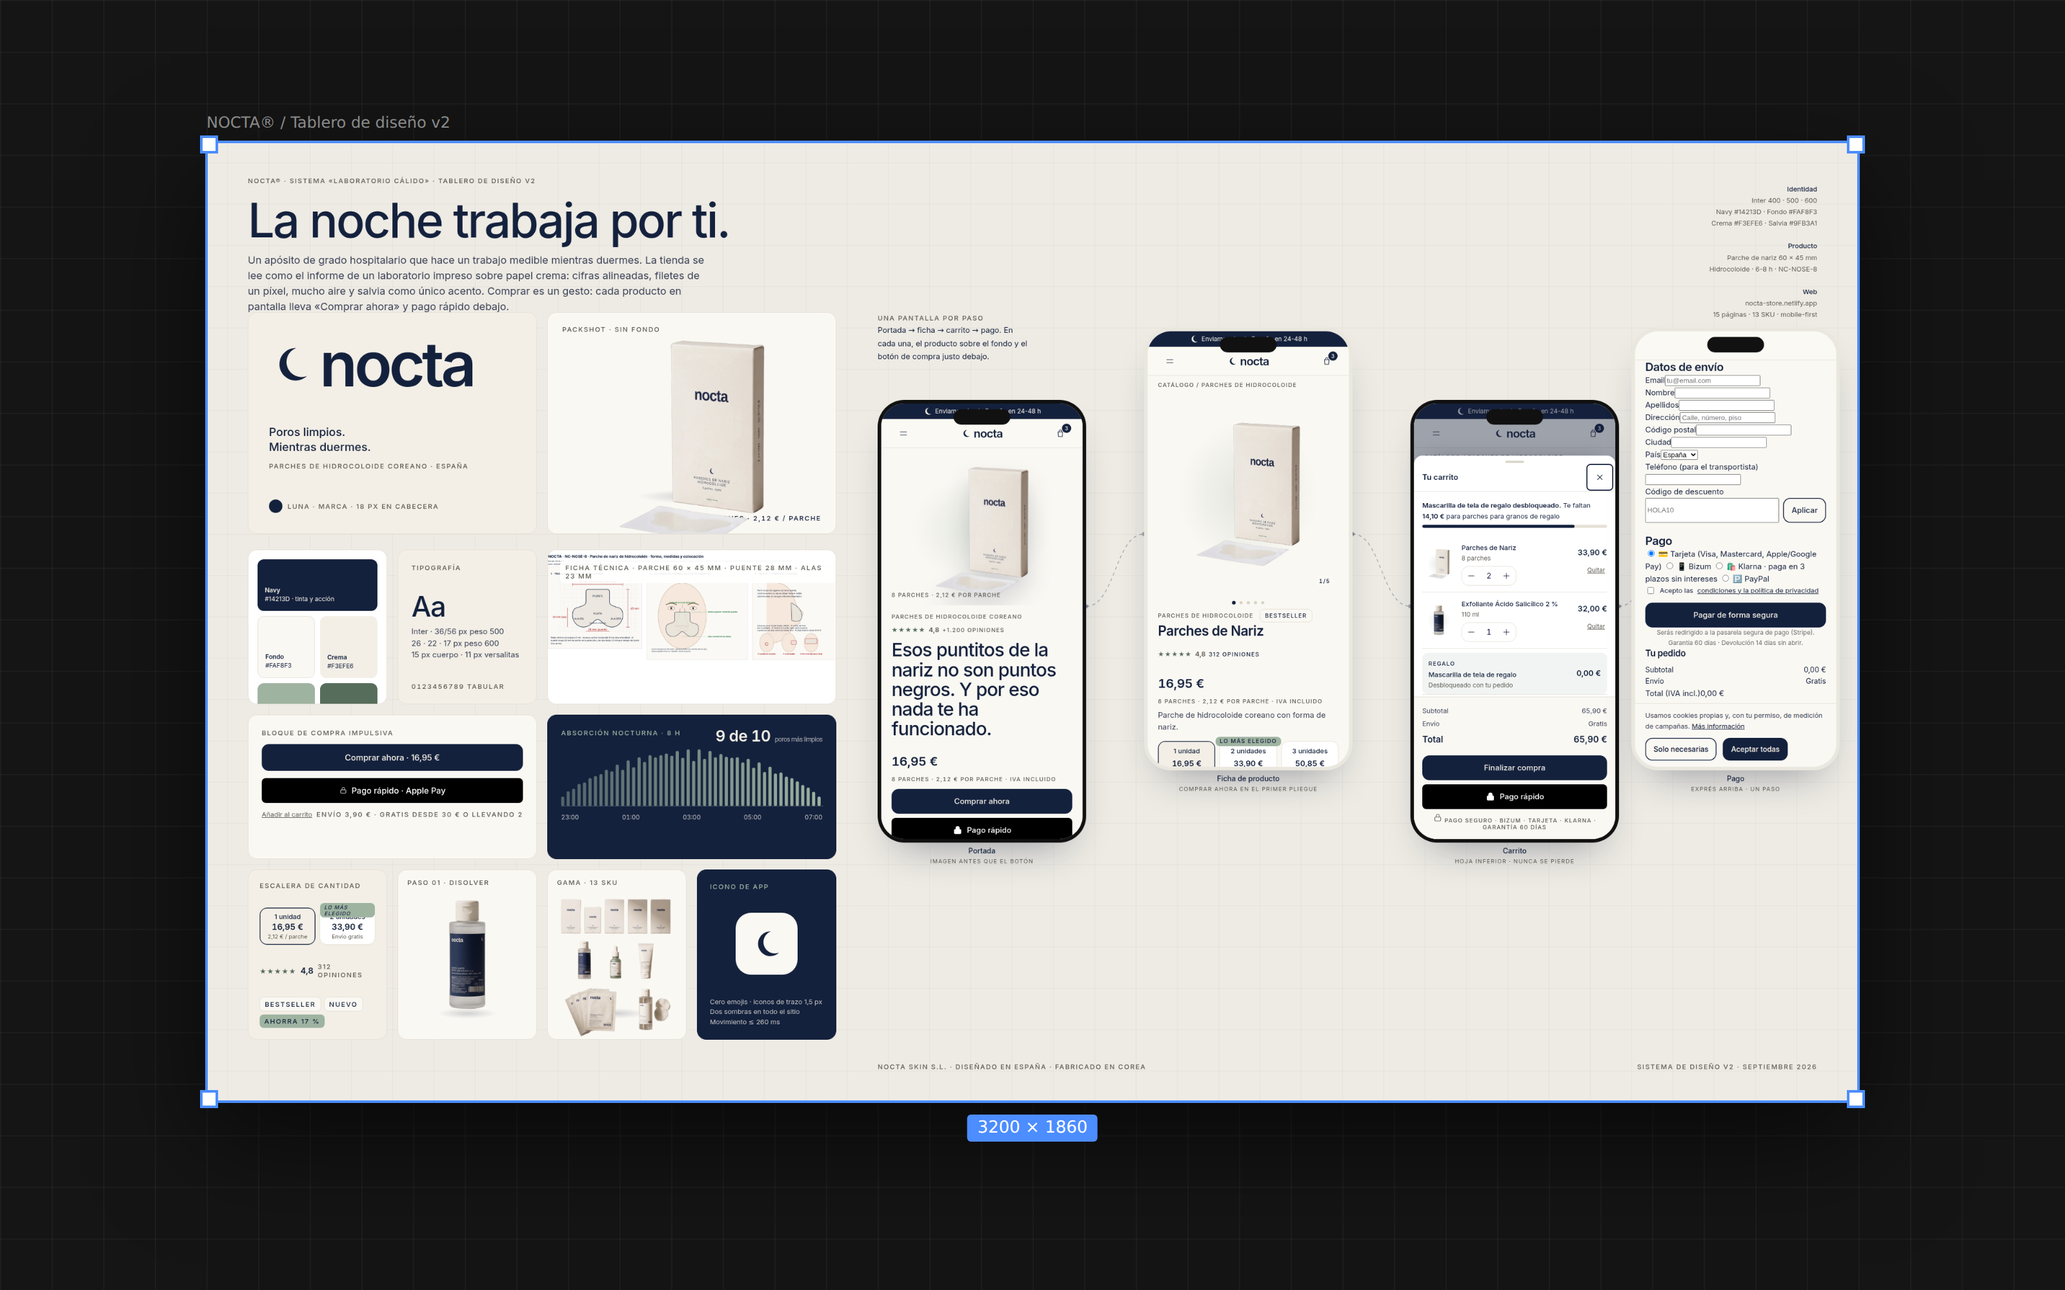
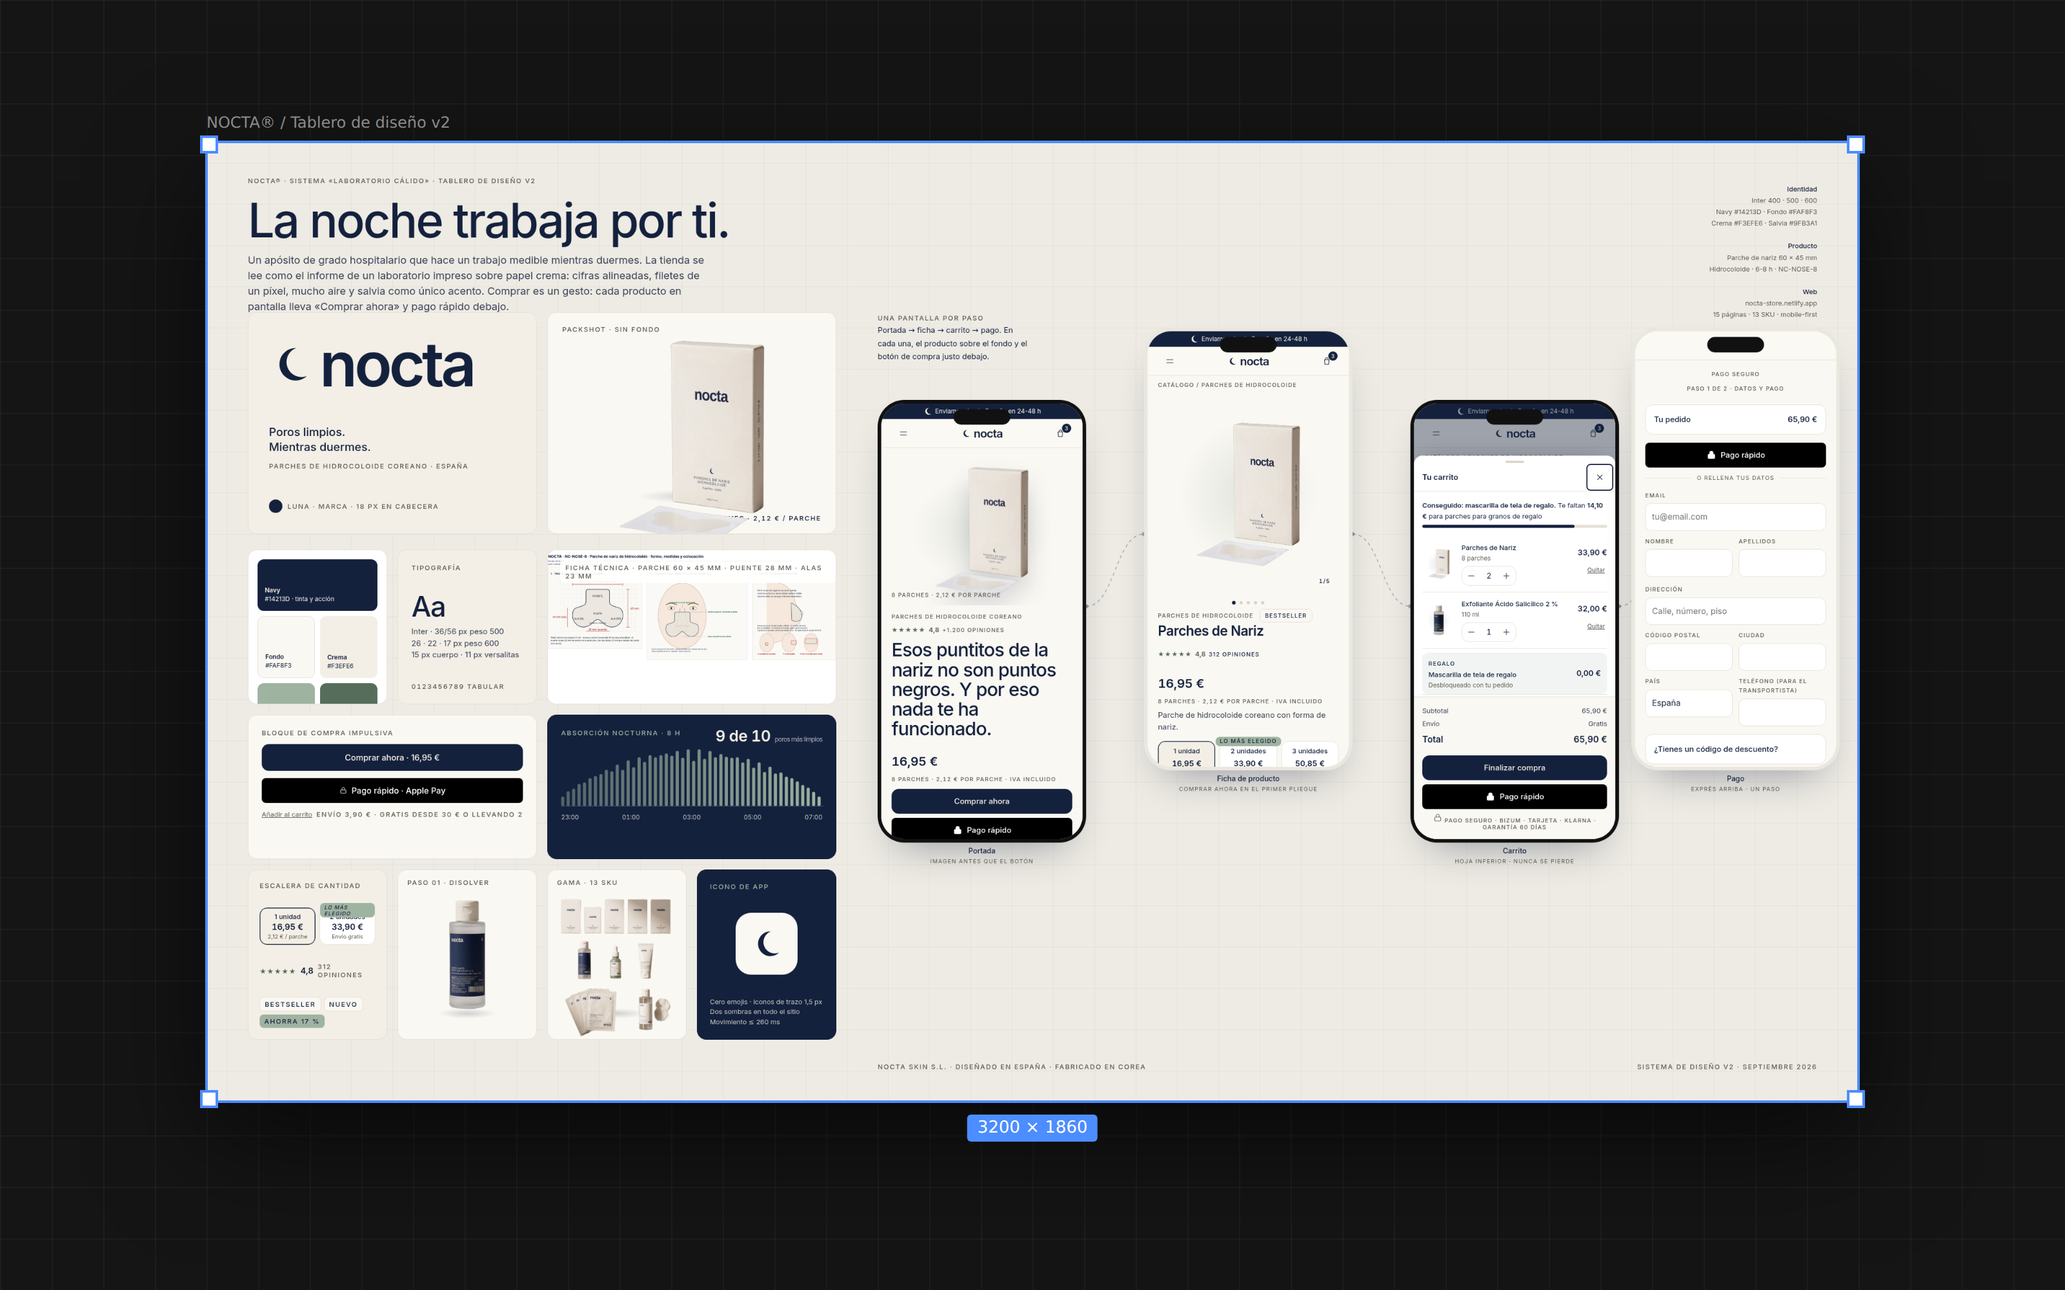
NOCTA web v2 completa: funnel (catálogo, checkout, gracias, quiz, guía, cómo usar), tablero de marca final, README v2, desplegada en nocta-store.netlify.app
Claude-Session: https://claude.ai/code/session_01CWYmnawf6cciJkk3MdKiVa

Changed region(s): [[0.7812, 0.279, 0.9062, 0.589], [0.6875, 0.372, 0.75, 0.403]]

diff --git a/nocta/web/public/assets/css/styles.css b/nocta/web/public/assets/css/styles.css
@@ -85,7 +85,7 @@ body.n-checkout .n-top__in>.n-icon,body.n-checkout .n-cart,body.n-checkout .n-ma
 .n-buy{display:grid;gap:var(--n-s2);margin-top:var(--n-s3)}.n-buy__add{justify-self:center}.n-buy__note{text-align:center;margin:2px 0 0}
 .n-buy__cart{display:block;text-align:center;margin:2px 0 0;font-size:var(--n-fs-xs);color:var(--n-muted)}
 .n-buy--compact{gap:6px}.n-buy--compact .n-btn{min-height:var(--n-tap);font-size:var(--n-fs-btn-s)}.n-buy--compact .n-pay{min-height:var(--n-tap);height:var(--n-tap)}
-.n-buy--compact .n-buy__foot{display:flex;justify-content:space-between;align-items:center;gap:var(--n-s2)}.n-buy--compact .n-buy__add{justify-self:start;min-height:40px}.n-buy--compact .n-buy__note{text-align:right;margin:0}
+.n-buy--compact .n-buy__foot{display:flex;justify-content:space-between;align-items:center;gap:var(--n-s2)}.n-buy--compact .n-buy__add{justify-self:start;min-height:var(--n-tap)}.n-buy--compact .n-buy__note{text-align:right;margin:0}
 .n-pay{width:100%;min-height:var(--n-tap);height:48px;border:0;border-radius:var(--n-r-xs);background:var(--n-black);color:#fff;display:grid;place-items:center;padding:0;transition:opacity var(--n-t2) var(--n-e),transform var(--n-t1) var(--n-e)}
 .n-pay:active{transform:scale(.98);opacity:.9}.n-pay svg{height:20px;width:auto;display:block;fill:#fff}
 .n-pay--plain span{font-size:var(--n-fs-btn);font-weight:var(--n-w-med);color:#fff;display:inline-flex;align-items:center;gap:8px}
@@ -113,10 +113,10 @@ body.n-checkout .n-top__in>.n-icon,body.n-checkout .n-cart,body.n-checkout .n-ma
 .n-price s{color:var(--n-muted);font-weight:var(--n-w-reg);font-size:var(--n-fs-sm);text-decoration-thickness:1px}.n-price__u{flex:0 0 100%}.n-price--lg b{font-size:var(--n-fs-price-l)}
 .n-klarna{margin:2px 0 0;font-size:var(--n-fs-xs);color:var(--n-muted)}
 .n-badge{position:absolute;top:var(--n-s3);left:var(--n-s3);z-index:2;background:var(--n-bg);color:var(--n-navy);border:1px solid var(--n-line);border-radius:var(--n-r-xs);padding:5px 9px;font-size:var(--n-fs-label);letter-spacing:var(--n-ls-label);text-transform:uppercase;font-weight:var(--n-w-med)}
-.n-grid{display:grid;gap:var(--n-s2)}
+.n-grid{display:grid;gap:var(--n-s2)}.n-grid:empty{min-height:100vh}
 @media (min-width:640px){.n-grid{grid-template-columns:repeat(2,1fr)}}
 @media (min-width:900px){.n-grid{grid-template-columns:repeat(4,1fr);gap:var(--n-s6) var(--n-s5)}.n-grid--3{grid-template-columns:repeat(3,1fr)}.n-grid--5{grid-template-columns:repeat(5,1fr)}}
-@media (max-width:640px){.n-card--row{flex-direction:row;gap:var(--n-s3);padding:var(--n-s3) 0;align-items:flex-start}.n-card--row+.n-card--row{padding-top:var(--n-s3)}.n-card--row .n-card__media{flex:0 0 112px;padding:2%;border-radius:var(--n-r-sm)}.n-card--row .n-card__body{padding:0;min-width:0}.n-card--row .n-badge{top:4px;left:4px;padding:3px 6px;font-size:10px}}
+@media (max-width:640px){.n-card--row{flex-direction:row;gap:var(--n-s3);padding:var(--n-s3) 0;align-items:flex-start}.n-card--row+.n-card--row{padding-top:var(--n-s3)}.n-card--row .n-card__media{flex:0 0 112px;padding:2%;border-radius:var(--n-r-sm)}.n-card--row .n-card__body{padding:0;min-width:0}.n-card--row .n-badge{top:4px;left:4px;padding:3px 6px;font-size:10px}.n-card--row .n-buy__foot{flex-direction:column;align-items:flex-start;gap:0}.n-card--row .n-buy__note{text-align:left}}
 /* ---------- hero ---------- */
 .n-hero{display:grid;gap:var(--n-s4);padding-top:var(--n-s3)}
 .n-hero__fig{aspect-ratio:4/3;margin-inline:calc(var(--n-gutter)*-1)}.n-hero__fig img{width:78%;height:auto;max-height:92%;animation:n-float 7s var(--n-e-io) infinite;filter:drop-shadow(0 26px 22px rgba(20,33,61,.16))}

diff --git a/nocta/web/public/catalogo.html b/nocta/web/public/catalogo.html
@@ -4,15 +4,14 @@
 <meta charset="utf-8"><meta name="viewport" content="width=device-width,initial-scale=1,viewport-fit=cover">
 <title>Catálogo completo · NOCTA</title>
 <meta name="description" content="Los 13 productos NOCTA: parches de hidrocoloide coreano y skincare para poros. Filtra por parches, skincare o packs y añade al carrito.">
-<link rel="preconnect" href="https://fonts.googleapis.com"><link rel="preconnect" href="https://fonts.gstatic.com" crossorigin>
-<link rel="stylesheet" href="https://fonts.googleapis.com/css2?family=Inter:wght@400;500;600&display=swap">
+<link rel="preload" href="/assets/fonts/inter-var.woff2" as="font" type="font/woff2" crossorigin>
 <link rel="stylesheet" href="/assets/css/styles.css">
 <link rel="icon" href="/assets/img/favicon.svg" type="image/svg+xml"><link rel="apple-touch-icon" href="/assets/img/apple-touch-icon.png">
 <meta name="theme-color" content="#FAF8F3">
-<script src="/assets/js/products.js"></script><script src="/assets/js/app.js" defer></script>
+<script src="/assets/js/app.js" defer></script>
 </head>
 <body>
-<div id="site-header"></div>
+<div id="site-header"><div class="n-top-ph"></div></div>
 <main class="n-wrap" id="main">
   <section style="padding-top:32px">
     <span class="n-lab">Catálogo</span>
@@ -28,7 +27,8 @@
       <button class="n-chip" data-f="packs" aria-pressed="false">Packs</button>
     </div>
     <p class="n-lab" aria-live="polite" id="count">13 productos</p>
-    <div class="n-grid n-stagger" id="grid-catalogo"></div>
+    <h2 class="n-vh">Productos</h2>
+<div class="n-grid n-stagger" id="grid-catalogo"></div>
   </section>
 
   <section style="text-align:center;padding-bottom:32px">
@@ -38,6 +38,7 @@
   </section>
 </main>
 <div id="site-footer"></div>
+<script src="/assets/js/products.js"></script>
 <script>
 document.addEventListener('DOMContentLoaded',()=>{
   const P=window.NOCTA_PRODUCTS;

diff --git a/nocta/web/public/tablero.html b/nocta/web/public/tablero.html
@@ -6,6 +6,7 @@
 <link rel="preconnect" href="https://fonts.googleapis.com"><link rel="preconnect" href="https://fonts.gstatic.com" crossorigin>
 <link rel="stylesheet" href="https://fonts.googleapis.com/css2?family=Inter:wght@400;500;600&display=swap">
 <link rel="icon" href="/assets/img/favicon.svg" type="image/svg+xml">
+<script>try{localStorage.setItem('n_popup','1');localStorage.setItem('n_ck','ess');localStorage.setItem('n_cart',JSON.stringify([{slug:'parches-nariz',qty:2,sub:false},{slug:'exfoliante-salicilico',qty:1,sub:false}]));}catch(e){}</script>
 <style>
 :root{--navy:#14213D;--bg:#FAF8F3;--cream:#F3EFE6;--paper:#fff;--sage:#9FB3A1;--sage-ink:#576D5B;--muted:#5F5C55;--line:#E6E1D6;--ink2:#3B4257}
 *{box-sizing:border-box}html,body{margin:0;background:#EDEAE2;font-family:Inter,system-ui,sans-serif;color:var(--navy);-webkit-font-smoothing:antialiased;font-feature-settings:"cv05" 1,"ss03" 1}
@@ -134,7 +135,6 @@
 <div class="abs lab" style="left:1300px;bottom:60px;right:80px;display:flex;justify-content:space-between"><span>NOCTA Skin S.L. · Diseñado en España · Fabricado en Corea</span><span>Sistema de diseño v2 · Septiembre 2026</span></div>
 </div>
 <script>
-try{localStorage.setItem('n_popup','1');localStorage.setItem('n_ck','ess');localStorage.setItem('n_cart',JSON.stringify([{slug:'parches-nariz',qty:2,sub:false},{slug:'exfoliante-salicilico',qty:1,sub:false}]));}catch(e){}
 const g=document.getElementById('bars');let s='';for(let i=0;i<48;i++){const h=18+Math.round(90*Math.pow(Math.sin(i/47*Math.PI),.8)*(0.75+0.25*Math.abs(Math.sin(i*1.7))));s+=`<rect x="${i*10.4}" y="${118-h}" width="6" height="${h}" rx="3" opacity="${.45+.55*(i/47)}"/>`;}g.innerHTML=s;
 </script>
 </body>

diff --git a/nocta/web/public/no-son-puntos-negros.html b/nocta/web/public/no-son-puntos-negros.html
@@ -4,15 +4,14 @@
 <meta charset="utf-8"><meta name="viewport" content="width=device-width,initial-scale=1,viewport-fit=cover">
 <title>Por qué los puntos negros de tu nariz siempre vuelven (y qué hacer esta noche) · NOCTA</title>
 <meta name="description" content="Los puntitos oscuros de la nariz no son puntos negros. Son filamentos sebáceos y por eso las tiras, los scrubs y apretar no funcionan. Esto es lo que sí.">
-<link rel="preconnect" href="https://fonts.googleapis.com"><link rel="preconnect" href="https://fonts.gstatic.com" crossorigin>
-<link rel="stylesheet" href="https://fonts.googleapis.com/css2?family=Inter:wght@400;500;600&display=swap">
+<link rel="preload" href="/assets/fonts/inter-var.woff2" as="font" type="font/woff2" crossorigin>
 <link rel="stylesheet" href="/assets/css/styles.css">
 <link rel="icon" href="/assets/img/favicon.svg" type="image/svg+xml"><link rel="apple-touch-icon" href="/assets/img/apple-touch-icon.png">
 <meta name="theme-color" content="#FAF8F3">
-<script src="/assets/js/products.js"></script><script src="/assets/js/app.js" defer></script>
+<script src="/assets/js/app.js" defer></script>
 </head>
 <body>
-<div id="site-header"></div>
+<div id="site-header"><div class="n-top-ph"></div></div>
 <main class="n-wrap n-wrap--text" id="main">
 <article class="n-read">
 <span class="n-lab n-lab--alert">Guía · 3 minutos de lectura</span>
@@ -78,6 +77,7 @@
 </div>
 
 <div id="site-footer"></div>
+<script src="/assets/js/products.js"></script>
 <script>
 document.addEventListener('DOMContentLoaded',()=>{
 const nariz=nBySlug('parches-nariz'),duo=nBySlug('duo-poros');

diff --git a/nocta/web/public/gracias.html b/nocta/web/public/gracias.html
@@ -5,15 +5,14 @@
 <meta name="robots" content="noindex">
 <title>¡Pedido confirmado! · NOCTA</title>
 <meta name="description" content="Gracias por tu pedido NOCTA. Confirmación, seguimiento y consejos para sacarle el máximo a tus parches mientras llega.">
-<link rel="preconnect" href="https://fonts.googleapis.com"><link rel="preconnect" href="https://fonts.gstatic.com" crossorigin>
-<link rel="stylesheet" href="https://fonts.googleapis.com/css2?family=Inter:wght@400;500;600&display=swap">
+<link rel="preload" href="/assets/fonts/inter-var.woff2" as="font" type="font/woff2" crossorigin>
 <link rel="stylesheet" href="/assets/css/styles.css">
 <link rel="icon" href="/assets/img/favicon.svg" type="image/svg+xml"><link rel="apple-touch-icon" href="/assets/img/apple-touch-icon.png">
 <meta name="theme-color" content="#FAF8F3">
-<script src="/assets/js/products.js"></script><script src="/assets/js/app.js" defer></script>
+<script src="/assets/js/app.js" defer></script>
 </head>
 <body>
-<div id="site-header"></div>
+<div id="site-header"><div class="n-top-ph"></div></div>
 <main class="n-wrap n-wrap--text" id="main">
   <section style="text-align:center;padding-top:24px">
     <div id="successmark" style="width:48px;height:48px;border-radius:50%;background:var(--n-sage-28);display:grid;place-items:center;margin:0 auto 14px;color:var(--n-navy)"></div>
@@ -49,6 +48,7 @@
   </section>
 </main>
 <div id="site-footer"></div>
+<script src="/assets/js/products.js"></script>
 <script>
 document.addEventListener('DOMContentLoaded',async()=>{
 document.getElementById('successmark').innerHTML=nIco('check',24);

diff --git a/nocta/web/public/como-usar.html b/nocta/web/public/como-usar.html
@@ -4,15 +4,14 @@
 <meta charset="utf-8"><meta name="viewport" content="width=device-width,initial-scale=1,viewport-fit=cover">
 <title>Cómo usar los parches NOCTA · Guía paso a paso</title>
 <meta name="description" content="Guía paso a paso para usar los parches de hidrocoloide NOCTA (nariz, granos, frente, barbilla) y el resto de la rutina, con vídeo.">
-<link rel="preconnect" href="https://fonts.googleapis.com"><link rel="preconnect" href="https://fonts.gstatic.com" crossorigin>
-<link rel="stylesheet" href="https://fonts.googleapis.com/css2?family=Inter:wght@400;500;600&display=swap">
+<link rel="preload" href="/assets/fonts/inter-var.woff2" as="font" type="font/woff2" crossorigin>
 <link rel="stylesheet" href="/assets/css/styles.css">
 <link rel="icon" href="/assets/img/favicon.svg" type="image/svg+xml"><link rel="apple-touch-icon" href="/assets/img/apple-touch-icon.png">
 <meta name="theme-color" content="#FAF8F3">
-<script src="/assets/js/products.js"></script><script src="/assets/js/app.js" defer></script>
+<script src="/assets/js/app.js" defer></script>
 </head>
 <body>
-<div id="site-header"></div>
+<div id="site-header"><div class="n-top-ph"></div></div>
 <main class="n-wrap n-wrap--text" id="main">
 <span class="n-lab">Guía de uso</span>
 <h1 class="n-d2" style="margin:8px 0 10px">Cómo usar tus parches para que se peguen 8 horas y saquen todo</h1>
@@ -91,6 +90,7 @@
 </article>
 </main>
 <div id="site-footer"></div>
+<script src="/assets/js/products.js"></script>
 <script>
 document.addEventListener('DOMContentLoaded',()=>{
 const nav=document.getElementById('guide-index');

diff --git a/nocta/web/public/checkout.html b/nocta/web/public/checkout.html
@@ -5,15 +5,14 @@
 <meta name="robots" content="noindex">
 <title>Finalizar compra · NOCTA</title>
 <meta name="description" content="Finaliza tu pedido NOCTA: datos de envío y pago seguro con tarjeta, Bizum, Klarna o PayPal.">
-<link rel="preconnect" href="https://fonts.googleapis.com"><link rel="preconnect" href="https://fonts.gstatic.com" crossorigin>
-<link rel="stylesheet" href="https://fonts.googleapis.com/css2?family=Inter:wght@400;500;600&display=swap">
+<link rel="preload" href="/assets/fonts/inter-var.woff2" as="font" type="font/woff2" crossorigin>
 <link rel="stylesheet" href="/assets/css/styles.css">
 <link rel="icon" href="/assets/img/favicon.svg" type="image/svg+xml"><link rel="apple-touch-icon" href="/assets/img/apple-touch-icon.png">
 <meta name="theme-color" content="#FAF8F3">
-<script src="/assets/js/products.js"></script><script src="/assets/js/app.js" defer></script>
+<script src="/assets/js/app.js" defer></script>
 </head>
 <body class="n-checkout">
-<div id="site-header"></div>
+<div id="site-header"><div class="n-top-ph"></div></div>
 <main class="n-wrap n-wrap--text" id="main">
   <p style="text-align:center;margin:14px 0 0"><span class="n-lab">Pago seguro</span></p>
   <p style="text-align:center;margin:4px 0 20px"><span class="n-lab">Paso 1 de 2 · Datos y pago</span></p>
@@ -83,6 +82,7 @@
 </div>
 
 <div id="site-footer"></div>
+<script src="/assets/js/products.js"></script>
 <script>
 document.addEventListener('DOMContentLoaded',()=>{
 document.getElementById('checktrust').innerHTML=nTrust();

diff --git a/nocta/web/public/quiz.html b/nocta/web/public/quiz.html
@@ -4,15 +4,14 @@
 <meta charset="utf-8"><meta name="viewport" content="width=device-width,initial-scale=1,viewport-fit=cover">
 <title>Test de piel: ¿qué parche necesitas? · NOCTA</title>
 <meta name="description" content="4 preguntas para saber qué parche NOCTA necesita tu piel: nariz, zona T, granos o una rutina completa.">
-<link rel="preconnect" href="https://fonts.googleapis.com"><link rel="preconnect" href="https://fonts.gstatic.com" crossorigin>
-<link rel="stylesheet" href="https://fonts.googleapis.com/css2?family=Inter:wght@400;500;600&display=swap">
+<link rel="preload" href="/assets/fonts/inter-var.woff2" as="font" type="font/woff2" crossorigin>
 <link rel="stylesheet" href="/assets/css/styles.css">
 <link rel="icon" href="/assets/img/favicon.svg" type="image/svg+xml"><link rel="apple-touch-icon" href="/assets/img/apple-touch-icon.png">
 <meta name="theme-color" content="#FAF8F3">
-<script src="/assets/js/products.js"></script><script src="/assets/js/app.js" defer></script>
+<script src="/assets/js/app.js" defer></script>
 </head>
 <body>
-<div id="site-header"></div>
+<div id="site-header"><div class="n-top-ph"></div></div>
 <main class="n-wrap n-wrap--text" id="main">
   <div class="n-flow">
     <button class="n-icon" id="qback" aria-label="Atrás" hidden></button>
@@ -22,6 +21,7 @@
   <div id="q"></div>
 </main>
 <div id="site-footer"></div>
+<script src="/assets/js/products.js"></script>
 <script>
 document.addEventListener('DOMContentLoaded',()=>{
 const QS=[

diff --git a/nocta/README.md b/nocta/README.md
@@ -23,6 +23,18 @@ Todo lo que hay en esta carpeta se ha construido a partir de la investigación d
 | `operaciones/manual_operativo.md` | pedido a proveedores, importación, 3PL, CPNP, atención al cliente, devoluciones | ✅ |
 | `finanzas/` | `modelo_financiero_nocta.xlsx` (supuestos, unit economics por SKU, PyG 12 meses, caja, punto muerto, escenarios) y `plan_financiero.md` | ver carpeta |
 
+## Web v2 «Laboratorio Cálido» (7 sep 2026)
+
+Rediseño completo mobile-first de la tienda (misma URL, mismos endpoints y eventos): https://nocta-store.netlify.app
+
+- **Producto sobre el fondo**: todas las imágenes de producto son recortes `-cut.webp` sin fondo ni caja, con sombra de contacto; fotos lifestyle solo en advertorial, guía y «sobre». Auditoría de los 12 recortes al 100 % en `brand/qa/control_calidad_imagenes.md`.
+- **Compra impulsiva**: bajo cada producto (11 superficies) aparece «Comprar ahora» → Apple Pay / Google Pay / «Pago rápido» → «Añadir al carrito» → nota de envío. La compra exprés nunca borra el carrito.
+- **Menús y barras**: cabecera que se condensa en píldora al hacer scroll, barra superior rotatoria, menú tipográfico numerado a pantalla completa con compra rápida del bestseller, carrito como hoja inferior arrastrable, barra de compra inferior con miniatura, toast arriba.
+- **Rendimiento** (Lighthouse móvil, local): portada 99/100/96/100, ficha 99/100/96/100, checkout 99/100, advertorial 99/100; CLS 0; Inter autoalojada (1 woff2 variable); sin librerías.
+- **Contrato de implementación**: `web/DESIGN.md` (sistema completo) y `web/COMPONENTS.md` (marcado y helpers para nuevas páginas).
+- **Tablero de marca** estilo Figma (3200 × 1860) con las pantallas reales: `brand/tablero/tablero_marca_nocta.png` (+ versión presentación `_figma.png`); versión viva en https://nocta-store.netlify.app/tablero.html (noindex).
+- Panel `/admin/` sin contraseña por decisión del propietario; `deploy.sh` ya no la reintroduce (solo si se pasa `ADMIN_TOKEN`).
+
 ## Cómo desplegar la web (Netlify, 10 minutos)
 
 1. `cd nocta/web && npm install` (solo `@netlify/blobs`).
